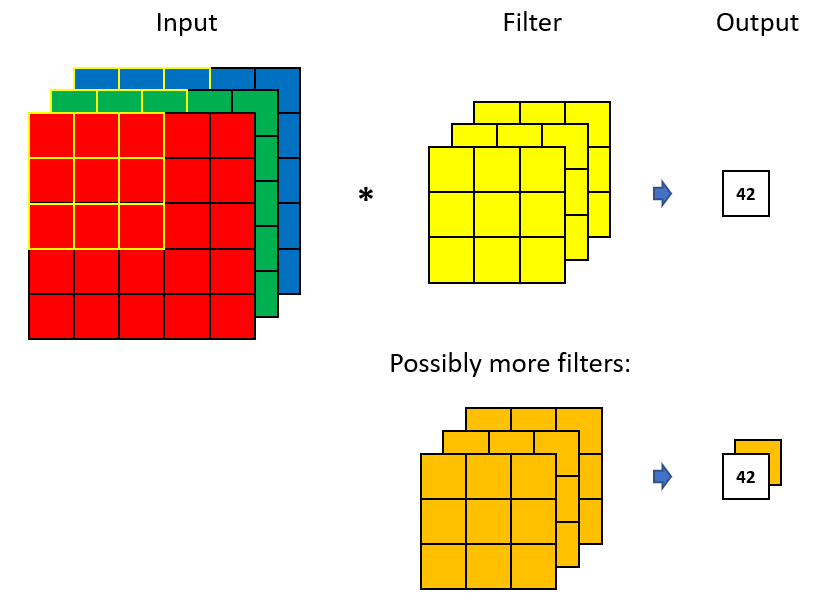
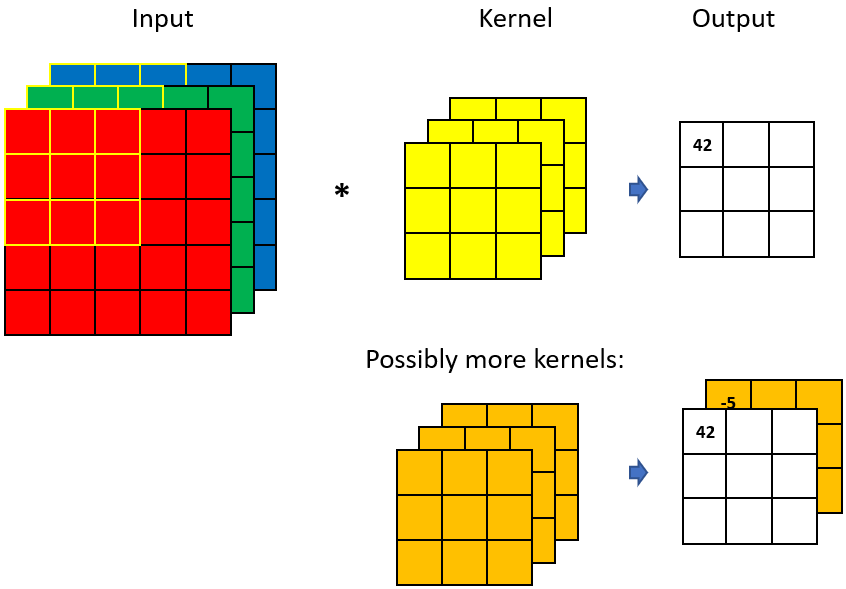
Skrevet første utkast av concolutions og unet, deretter endret på noen global eksperiment settings tables i metoden

diff --git a/chapter/background.tex b/chapter/background.tex
@@ -38,7 +38,7 @@
         things
 
 \section{Artificial Neural Networks} \label{neural networks}
-    \citeauthor{Goodfellow-et-al-2016_NN} \cite{Goodfellow-et-al-2016_NN} describes \gls{ann} as a unknown function \textit{\^{f}} that maps an input \textit{x} to an output \textit{y}. The goal is then to approximate some optimal function \textit{f} through learning from examples. In this section, I will explain the basics of \gls{ann}s.
+    \citeauthor{Goodfellow-et-al-2016_NN} \cite{Goodfellow-et-al-2016_NN} describes \gls{ann} as an unknown function \textit{\^{f}} that maps an input \textit{x} to an output \textit{y}. The goal is then to approximate some optimal function \textit{f} through learning from examples. In this section, I will explain the basics of \gls{ann}s.
 
     \subsection{Perceptron} \label{perceptron}
         The \gls{ann}s fundamental building block is called an artificial neuron or perceptron. It is formulated in the following way\cite{razavi2021deep_exp_per}:
@@ -46,7 +46,7 @@
                 y = \sigma(\sum_{i=1}^{D}w_ix_i + b)
             \end{equation}
             
-        where D is the number dimension of the input space, x is the input vector and w is a set of weights that is of the same size as x, b is the bias and {\textsigma} is a nonlinear activation function which will be explained later in \ref{activation function}. In short the equation inside the activation functions is a linear regression. The perceptron is illustrated in figure \ref{Perceptron / MLP}.
+        where D is the number dimension of the input space, x is the input vector and w is a set of weights that is of the same size as x, b is the bias and {\textsigma} is a nonlinear activation function which will be explained later in \ref{activation function}. In short, the equation inside the activation functions is a linear regression. The perceptron is illustrated in figure \ref{Perceptron / MLP}.
     
     \subsection{Multi-layered perceptron} \label{MLP}
         The neurons presented in section \ref{perceptron} are then piled together in layers to form a \gls{ann}, which in turn forms what is called a \gls{mlp} \cite{razavi2021deep_exp_per}. All the neurons in each layer are connected to every neuron in the next layer, as depicted in figure \ref{Perceptron / MLP}.
@@ -54,7 +54,7 @@
             \begin{figure}[H]
                 \centering
                 \includegraphics[scale=0.5]{figures/perceptron.png}
-                \caption{(a) A perceptron and (b) a multi-layer perceptron with four inputs in the input-layer(arrows to the left), two hidden layers(green), and three outputs in the output-layer(red).}
+                \caption[The perceptron and multi-layer perceptron]{(a) A perceptron and (b) a multi-layer perceptron with four inputs in the input-layer(arrows to the left), two hidden layers(green), and three outputs in the output-layer(red).}
               	\medskip 
                 \hspace*{15pt}\hbox{\scriptsize Credit: \citeauthor{razavi2021deep_exp_DL}\cite{razavi2021deep_exp_DL}}
                 \label{Perceptron / MLP}
@@ -77,7 +77,7 @@
             \begin{figure}[H]
                 \centering
                 \includegraphics[scale=0.5]{figures/activation.png}
-                \caption{A ReLU function (blue) and a sigmoid function (red)}.
+                \caption[ReLu and sigmoid]{A ReLU function (blue) and a sigmoid function (red)}.
               	\medskip 
                 \label{activation_fig}
             \end{figure}
@@ -97,88 +97,114 @@
 \subsection{Data-Augmentation}
     things
 
+\clearpage
 \section{Computer vision}
-    things
-\subsection{Convolutional neural network}
-    \gls{cnn} are a type of \gls{ann}s that are primarily used in machine learning tasks concerning images\cite{o2015introduction_convolutions}. The \gls{cnn} is built around an operation called convolutions that \textit{convolutes} over its input, hence the name. Unlike the regular neurons that has a connection to every neuron in the previous layer, in the convolution operation, every neuron consists of a weight matrix of three dimensions; \textit{height}, \textit{width} and \textit{depth}. The depth is the size of the third dimension of the input, like the three colors in standard images. This creates what is called a \textit{filter} which is applied to the input in what is defined as \textit{strides}, and calculates the scalar product between the weights and the connected area of the input. The complete convolutional operations then consist of applying this filter to the entire input. This reduces the dimension of the input to a 2D output, but you may apply several filters to increase the dimensions, as each will create a new 2D channel in the output. Reductions in the height and width will normally occur with the standard convolutions, and this type is called \textit{valid convolutions}. Later in this section \textit{same convolutions} will be described which conserves the input dimensions. The high level convolutional operation is illustrated in figure \ref{convolutional_filters_fig}. A more detailed example can be found in figure \ref{convolutional_fig} which looks at how a convolution is applied to 2D input. 
+    \textbf{Computer vision} is a very popular field of research within deep learning\cite{voulodimos2018deep_computer_vision}. This is because it has mainly focused around tasks we humans do naturally, while computers would struggle. This could be facial recognition, object detection and many more. Some work also went beyond human capability, like \citeauthor{davis2014visual_deep_video_audio}s\cite{davis2014visual_deep_video_audio} work, where he recovered sounds from the vibrations they induced in objects captured on video. There are many methods in the field of computer vision, but I will focus on the \gls{cnn}.
     
+    
+    
+\subsection{Convolutional neural network} \label{cnn}
+    The \textbf{\gls{cnn}} are a type of \gls{ann}s that are primarily used in machine learning tasks concerning images\cite{o2015introduction_convolutions}.The need for the convolutional operation stemmed from the fact that images input to a regular \gls{ann} produces a large amount of learnable parameters. An example 512x512 low resolution image with a first layer of 1 neuron would have $1*512*512 = 262144$ weights alone.  To solve this issue and have fewer learnable parameters, the \gls{cnn} is built around 3 main components\cite{o2015introduction_convolutions}:
+    
+    \begin{itemize}
+        \item A \textbf{convolutional operation} that in \textit{strides} applies the same operation to different regions of the input through the use of a \textit{kernel} and a \textit{receptive field}.
+        \item A \textbf{pooling operation} that reduces spatial dimensions.
+        \item A \textbf{fully-connected layer} that is similar to a layer in a regular \gls{ann} described in section \ref{Perceptron / MLP} and its task is to calculate class scores.
+     \end{itemize}
+     
     \begin{figure}[H]
         \centering
-        \includegraphics[scale=0.5]{figures/convolution.png}
-        \caption{The yellow outline in the input illustrated where the filter is applied. This produces a single value. More filters could be added to increase the dimension of the output.}
+        \includegraphics[scale=0.4]{figures/convolution.png}
+        \caption[Convolutional operation example]{The example input is an image with the color channels red, green and blue. The kernel is of height 3 and width 3, with a depth of 3 to correspond with the input number of channels. The yellow outlined area in the input illustrates the receptive field of the kernel, which produces an example output of 42. More kernels could be applied to increase the dimension of the output(orange). With only the yellow filter, this model would have; $3*3*3$ weights $+ 1$ bias $= 28$ learnable parameters, independent of input image height and width.}
       	\medskip 
-        \label{convolutional_filters_fig}
+        \label{convolutional_high_level_fig}
     \end{figure}
     
+    
+     \citeauthor{o2015introduction_convolutions}\cite{o2015introduction_convolutions} describes that the convolutional operation in a \gls{cnn} consists of a weight matrix of three dimensions; \textit{height}, \textit{width} and \textit{depth} written as: height x width x depth. From now, this matrix will be called the kernel. The height and the width of the kernel are parameters defined by the user, but the depth will always equal the number of channels in the input. This results in kernels being written only as: height x width.  The kernel is iteratively applied to different locations of the input, called the current \textit{receptive field}. When applied, it calculates the scalar product between the current receptive field and the kernel, producing a single scalar value called the \textit{activation}. The next receptive field is then located by moving the receptive field by a value defined as the \textit{stride} in the horizontal direction. If this is not possible due to a part of the  receptive field being outside the input, the receptive field will move one row down and begin anew. The high level convolutional operation is illustrated in figure \ref{convolutional_high_level_fig}.
 
+    The complete \textit{convolutional operation} performed by a convolutional layer consists of applying this kernel to the entire input. Producing activations for different regions of the input. This reduces the dimension of the input to a 2D activation output, but you may apply several kernels to increase the channels, as each will create a new 2D channel in the activations. A convolutional operation is often followed up with an element wise nonlinear activation function to its activations, like a ReLu. The kernels will through training learn to detect different features in the input, and so in a \gls{cnn} the first layers will often detect simple features like edges. Later layers will then detect more complex features like cars and houses, combining the activations from different earlier layers. The last layer consists of a \textit{fully connected} layer of regular neurons to determine the output, but implementations of networks with only convolutional operations exists like U-Net which will be described\cite{unet_ronneberger2015} in section \ref{unet} utilizing 1x1 convolutions. A more detailed example can be found in figure \ref{convolutional_fig} which looks at how a convolution with a horizontal edge detecting kernel is applied to a single channel or an equivalent 2D input. 
     
     \begin{figure}[H]
         \centering
-        \includegraphics[scale=0.5]{figures/convolutions.png}
-        \caption{Illustration of a \textit{valid} convolutional operation. The filter is applied repeatedly across the input. If the input had more channels, the filter would likewise have the equal depth. The size of input is 6x6, filter size is 3x3 and stride = 1. Resulting in the size of output being 4x4..}
+        \includegraphics[scale=0.4]{figures/convolutions.png}
+        \caption[Horizontal edge detector example]{Illustration of a \textit{valid} convolutional operation. The kernel is applied repeatedly across the input. The size of input is 6x6, kernel size is 3x3 and stride = 1, resulting in overlapping operations. Resulting in the size of output being 4x4. The figures to the right show the colors for input, kernel and output(activation), where the color gets darker if the values are low. This example is a horizontal edge detector, and the result is large activations along the border between the values of 0 and 10 in the input, which could have been colors in a picture. }
       	\medskip 
         \label{convolutional_fig}
     \end{figure}
     
+    Reductions in the dimensions\cite{o2015introduction_convolutions} will normally occur with the standard convolutions, and this type is called \textit{valid convolutions}. By applying a padding with zeros around the input, you can retain the dimensions of the input. The effect is that more convolutional operations fits in the new padded input, hence larger output size. This is called a \textit{same convolution}. Illustrated in figure \ref{same_convolutional_fig}.
+    
     \begin{figure}[H]
         \centering
         \includegraphics[scale=0.5]{figures/same_convolutions.png}
-        \caption{Illustration of a \textit{same} convolutional operation. The size of the input is 3x3, but after padding the size is 5x5, filter size is 3x3 and stride is 1. Resulting in the size of output being 3x3, hence conserving the input size.}
+        \caption[Same convolution example]{Illustration of a \textit{same} convolutional operation. The size of the input is 3x3, but after padding with zeros the size is 5x5, kernel size is 3x3 and stride is 1. Resulting in the size of the output being 3x3, hence conserving the input size.}
       	\medskip 
         \label{same_convolutional_fig}
     \end{figure}
     
-
-\subsection{Transpose convolutions}
-    things
     
-\subsection{Max-pool}
+    
+\subsection{Max pool}
+    As mentioned in the start of this chapter, the \textbf{max pool} operation reduces the size of its input\cite{o2015introduction_convolutions}. Like a convolutional operation, the max pool looks at a region of the input, but then instead applies a \textit{max} operation. The kernel size is given in \textit{height} x \textit{width}, and is applied individually to each dimension of the input.This reduces the height and width, but not the channels. The most common setting is 2x2 with a stride = 2, which results in decreasing the size to 25\%.
+
     \begin{figure}[H]
         \centering
         \includegraphics[scale=0.5]{figures/max_pool.png}
-        \caption{Illustration of the max-pool operation with size = 2 and stride = 2.}
+        \caption[The max pool operation]{Illustration of the max pool operation with size = 2x2 and stride = 2.}
       	\medskip 
         \label{maxpool_fig}
     \end{figure}
     
+\subsection{Transposed convolutions}
+    A transposed convolution is an operation performing the opposite operation compared to a regular convolution. This means taking an input and with a similar \textit{kernel} as described earlier in \ref{cnn} and mapping this to a higher spatial size. In example figure \ref{transposed_conv_fig} a 2D 2x2 input is fed to a transposed convolutional layer with kernel size 2x2. The whole kernel is multiplied element wise to the input and proceeds to produce values in a temporary matrix initialized with zeros(empty cells in the figure). The calculated values in the temporary matrix are situated correctly relative to the input. These temporary matrices are then summed over, producing the output. This operation is repeated for all channels, retaining the channels in the input.
     
-\subsection{Convolutions through volumes}
-    things
+    \begin{figure}[H]
+        \centering
+        \includegraphics[scale=0.5]{figures/transpose_convolution.png}
+        \caption[Transposed convolution]{Illustration of the transposed convolution operation with kernel size 2x2 and stride = 1. The green color shows one of the intermediate computations. The center value of each crop is outlined to illustrate the summation step as these overlaps.}
+      	\medskip 
+        \label{transposed_conv_fig}
+    \end{figure}
+    
+\subsection{Advantages of the convolutional neural network}
+    To sum up the advantages of the \gls{cnn}\cite{o2015introduction_convolutions}, they have, compared to regular \gls{ann}s, very few learnable parameters. It is only the kernels weights that are the parameters learned, and so share their parameters across all regions of the input, thus greatly reducing the amount. The max pool operation reduces the dimensions, hence reducing the size of the following convolutional layers, and does not have any learnable parameters itself. Since the same kernel is applied across the input, the position of what the kernel detects is also not relevant.
+    
     
 \subsection{Segmentation}
-    Segmentation is a machine learning task where the objective is to assign one or several classification masks to the input\cite{He_2017_ICCV_segmentation}. This is again split into two different categories; \textit{semantic} and \textit{instance} segmentation. In semantic segmentation, you assign each pixel in the input to predefined classes. While in instance segmentation, you increase the complexity by applying semantic segmentation and thereafter assigning a bounding box to each individual object. Semantic segmentation is the variant used in this thesis, and an example can be viewed in figure \ref{segmentation_fig}.
+    Segmentation is a computer vision task where the objective is to assign one or several classification masks to the input\cite{He_2017_ICCV_segmentation}. This is again split into two different categories; \textit{semantic} and \textit{instance} segmentation. In semantic segmentation, you assign each pixel in the input to predefined classes. While in instance segmentation, you increase the complexity by applying semantic segmentation and in parallel assigning a bounding box to each individual object. Semantic segmentation is the variant used in this thesis, and examples of both can be viewed in figure \ref{segmentation_fig}.
     
     \begin{figure}[H]
         \centering
         \includegraphics[scale=0.4]{figures/segmentation.png}
-        \caption{Illustration of the difference between semantic and instance segmentation.}
+        \caption[Difference between semantic and instance segmentation]{Illustration of the difference between semantic and instance segmentation.}
       	\medskip 
         \label{segmentation_fig}
     \end{figure}
     
     
 
-\section{U-Net}
-    In this part I introduce the architecture of the deep learning \gls{ann} used in this thesis called U-Net. This is a fully convolutional state-of-the-art\cite{rajak2021segmentation} semantic segmentation \gls{ann} and was initially developed for biomedical use by \citeauthor{unet_ronneberger2015}\cite{unet_ronneberger2015}. The \gls{crimac} used this model in their project (described in \ref{unet_paper_acoustic}) and had to do some small modifications to the network to fit their task. This modified U-Net is the one presented in this section, as this is the one used in the experiments. The core functionality of the network stays true to the original Unet and the alterations done will be explained later in this section.
+\section{U-Net} \label{unet}
+    In this part I introduce the architecture of the deep learning \gls{ann} used in this thesis called U-Net. This is a fully convolutional state-of-the-art\cite{rajak2021segmentation} semantic segmentation \gls{ann} and was initially developed for biomedical use by \citeauthor{unet_ronneberger2015}\cite{unet_ronneberger2015}. The \gls{crimac} used this model in their project (described in \ref{unet_paper_acoustic}) and had to do some small modifications to the network to fit their task. This modified U-Net is the one presented in this section, as this is the one used in the experiments. The core functionality of the network stays true to the original Unet and the alterations done to the original will be explained later in this section.
     
     \begin{figure}[H]
         \centering
         \includegraphics[scale=0.5]{figures/unet_arrows.png}
-        \caption{U-Net architecture, the downwards facing arrow illustrates the contracting path and the one facing upwards is the expanding path.}
+        \caption[U-Net architecture]{U-Net architecture, the downwards facing arrow illustrates the contracting path and the one facing upwards is the expanding path.}
       	\medskip 
         \label{unet_fig}
         \hspace*{15pt}\hbox{\scriptsize Credit: \citeauthor{brautaset2020acoustic}\cite{brautaset2020acoustic}}
     \end{figure}
     
-    Unet utilized what \citeauthor{unet_ronneberger2015}\cite{unet_ronneberger2015} called a contracting path to identify what was in a picture, while an expanding path to localize where it was. These two branches were symmetrical, and together they formed a U-shape, giving the network its name. The contracting path can be looked at as five different stages of processing, from top to bottom, in figure \ref{unet_fig}. Each stage applied the same operations to its given input. For each stage, this consisted first of two 3x3 same convolutions with their individual ReLu activation functions. Initially, the feature channels would be increased to 64, and later doubled for each contracting stage. The convolutions were followed by a 2x2 max pooling operation with stride 2 to decrease the resolution of the output from the convolutional operations, and then send this feature map down to the next stage. At the bottom stage, the only things that changed was the use of transpose convolutions instead of max pooling to now increase the resolution. At each subsequent stage going back up the expanding path, the number of feature channels were halved. To aid the localization, the output of the previous stage would be concatenated with the output feature map of a stage from the contracting path with the same size. At the last stage, when the resolution had reached it original size, a 1x1 convolution was applied instead of increasing the resolution. The 1x1 convolution mapped the 64 feature channels to the 3 classes. The softmax was then calculated between these classes, giving each pixel a value between [0,1], summarized over all classes to 1. Hence, giving you a segmentation map of each class with the same size as the input. In this thesis, this will be a semantic segmentation of the classes \textit{background}, \textit{other } and most importantly \textit{sandeel}.
+    Unet utilized what \citeauthor{unet_ronneberger2015}\cite{unet_ronneberger2015} called a contracting path to identify what was in a picture, while an expanding path to localize where it was. These two branches were symmetrical, and together they formed a U-shape, giving the network its name. The contracting path can be looked at as five different stages of processing, from top to bottom, in figure \ref{unet_fig}. Each stage applied the same operations to its given input. For each stage, this consisted first of two 3x3 same convolutions with their individual ReLu activation functions. Initially, the feature channels would be increased to 64, and later doubled for each contracting stage. The convolutions were followed by a 2x2 max pooling operation with stride 2 to decrease the resolution of the output from the convolutional operations, and then send this feature map down to the next stage. At the bottom stage, the only things that changed was the use of transpose convolutions instead of max pooling to now increase the resolution. At each subsequent stage going back up the expanding path, the number of feature channels were halved. To aid the localization, the output of the previous stage would be concatenated with the output feature map of a stage from the contracting path with the same size. At the last stage, when the resolution had reached it original size, a 1x1 convolution was applied instead of increasing the resolution. The 1x1 convolution mapped the 64 feature channels to the 3 classes. The softmax was then calculated between these classes, giving each pixel a value between [0,1], summarized over all classes to 1. Hence, giving you a segmentation map of each class with the same size as the input. 
     
-    Here I list the changes from \citeauthor{unet_ronneberger2015}s original U'net performed in article \ref{unet_paper_acoustic}. Firstly, minor changes were made to adapt U-net to the acoustic data, as the input now had the form 4 x 256 x 256. The four channels being the frequencies used. The convolutions were as mentioned in the previous paragraph set to \textit{same} instead of \textit{valid}, as were the original setting. This was done to make the size of the input and output match. Further, batch normalization was added to each convolution. 
+    %In this thesis, this will be a semantic segmentation of the classes \textit{background}, \textit{other } and most importantly \textit{sandeel}.
     
+    Minor changes were made to adapt\citeauthor{unet_ronneberger2015}s original U'net to the acoustic data used in \ref{unet_paper_acoustic}, as the input now had the form 4 x 256 x 256. The four channels being the frequencies used. The convolutions were as mentioned in the previous paragraph set to \textit{same} instead of \textit{valid}, as were the original setting. This was done to make the size of the input and output match. Further, batch normalization was added to each convolution. 
     
 
-
-
-
+% Unsure if this is to be here, in methodology or appendix.
+\clearpage
 \section{The data and tools}
     The data was provided by the \gls{imr} and I had access to a broad selection of yearly trawl cruises spanning from 2011 to 2020. In this chapter, I will delve into the data itself to give you a clearer picture of how it looked, how I acquired it and what tools I utilized.
     

diff --git a/chapter/methodology.tex b/chapter/methodology.tex
@@ -1,9 +1,9 @@
 \chapter{Methodology}
 \section{Challenges and restrictions}
-    \subsection{The ZARR issue}
-        things
+    \subsection{The .ZARR issue}
+        As this thesis was going to be based around the .ZARR format, I soon discovered a problem. 
     \subsection{Bitmap errors} \label{bitmap_error}
-        things
+        
         
     \subsection{Server at the University of Bergen}
         things
@@ -22,7 +22,7 @@
             \centering
             \includegraphics[scale=0.32]{figures/data_sample.png}
           	\includegraphics[scale=0.32]{figures/data_sample_noisy.png}
-            \caption{Two examples of pseudo labels by row. Purple is values 0 zero and yellow is 1. The upper row illustrates a low noise sample, while the sample in the lower row contains more noise, especially in the background annotations.}
+            \caption[Example pseudo label]{Two examples of pseudo labels by row. Purple is values 0 zero and yellow is 1. The upper row illustrates a low noise sample, while the sample in the lower row contains more noise, especially in the background annotations.}
             \label{data sample fig}
         \end{figure}        
         
@@ -33,7 +33,7 @@
         \begin{figure}[H]
             \centering
             \includegraphics[scale=0.8]{figures/flow_data_gen.png}
-            \caption{An overview of the data generation process. CRIMAC pipeline modules (black), data.raw (blue), SV data.zarr (green), pseudo labels.zarr (yellow), bottom.zarr (red) and the finished file.pytorch (gray)}
+            \caption[Data generation process]{An overview of the data generation process. CRIMAC pipeline modules (black), data.raw (blue), SV data.zarr (green), pseudo labels.zarr (yellow), bottom.zarr (red) and the finished file.pytorch (gray)}
           	\medskip 
             \label{data_generation_flowchart_fig}
         \end{figure}
@@ -44,7 +44,7 @@
         \begin{figure}[H]
             \centering
             \includegraphics[scale=0.5]{figures/crop_extract_illustration.png}
-            \caption{Example of how the data, pseudo labels and bottom crops would look during data generation. For the pseudo label, purple is values of 0 and yellow value of 1. Some predictions under the seafloor are removed.  Size is shown to make it clear that it is a crop of the same size from the same location.}.
+            \caption[Data, label and bottom crop extraction and interaction]{Example of how the data, pseudo labels and bottom crops would look during data generation. For the pseudo label, purple is values of 0 and yellow value of 1. Some predictions under the seafloor are removed.  Size is shown to make it clear that it is a crop of the same size from the same location.}.
           	\medskip 
             \label{crop_extract_fig}
         \end{figure}
@@ -56,7 +56,7 @@
         \begin{figure}[H]
             \centering
             \includegraphics[scale=0.5]{figures/data_hierarki.png}
-            \caption{An overview of the data hierarchy.}.
+            \caption[The data-hierarchy]{An overview of the data hierarchy.}.
           	\medskip 
             \label{data_hierarchy_fig}
         \end{figure}
@@ -89,26 +89,55 @@
     
     \subsection{Experiment settings} \label{Experiment settings}
         All models are based on the one created in article \ref{unet_paper_acoustic}. This means the architecture, hyperparameters and the way the data is loaded into the model. A summary can be seen in table \ref{experiment_settings_table}.
-        
-        \clearpage
-        \begin{table}[H]
-        \caption{Overview of experiment parameters.}
-        \label{experiment_settings_table}
-        \begin{tabular}{lll}
-        \cline{1-2}
-        \multicolumn{1}{|l|}{\textbf{Data augmentation}}        & \multicolumn{1}{l|}{\textbf{Comments}}                     & \textbf{}                                                                                               \\ \cline{1-2}
-        \multicolumn{1}{|l|}{\textit{Convert to decibel scale}} & \multicolumn{1}{l|}{Always}                                &                                                                                                         \\ \cline{1-2}
-        \multicolumn{1}{|l|}{\textit{Flip along vertical axis}} & \multicolumn{1}{l|}{50\% of happening upon loading sample} &                                                                                                         \\ \cline{1-2}
-                                                                &                                                            &                                                                                                         \\ \hline
-        \multicolumn{1}{|l|}{\textbf{Hyperparameters}}          & \multicolumn{1}{l|}{\textbf{Value/ Category}}              & \multicolumn{1}{l|}{\textbf{Comments}}                                                                  \\ \hline
-        \multicolumn{1}{|l|}{\textit{Learning rate}}            & \multicolumn{1}{l|}{0.01}                                  & \multicolumn{1}{l|}{Halved every 1000th batch}                                                          \\ \hline
-        \multicolumn{1}{|l|}{\textit{Momentum}}                 & \multicolumn{1}{l|}{0.95}                                  & \multicolumn{1}{l|}{}                                                                                   \\ \hline
-        \multicolumn{1}{|l|}{\textit{Loss function}}            & \multicolumn{1}{l|}{Weighted Cross-entropy}                & \multicolumn{1}{l|}{\begin{tabular}[c]{@{}l@{}}Background = 1, Other = 25,\\ Sandeel = 30\end{tabular}} \\ \hline
-        \multicolumn{1}{|l|}{\textit{Optimizer}}                & \multicolumn{1}{l|}{Stochastic gradient descent}           & \multicolumn{1}{l|}{}                                                                                   \\ \hline
-        \multicolumn{1}{|l|}{\textit{Batch size}}               & \multicolumn{1}{l|}{16}                                    & \multicolumn{1}{l|}{}                                                                                   \\ \hline
-        \multicolumn{1}{|l|}{\textit{Crop size}}                & \multicolumn{1}{l|}{256x256}                               & \multicolumn{1}{l|}{Include all available channels}                                                     \\ \hline
-        \end{tabular}
-        \end{table}
+
+
+\clearpage
+\begin{longtable}{lcl}
+\hline
+\multicolumn{1}{|l|}{\textbf{Sample class}} & \multicolumn{1}{l|}{\textbf{Probability}} & \multicolumn{1}{l|}{\textbf{Details}}                                                         \\ \hline
+\endfirsthead
+%
+\endhead
+%
+Sandeel                                     & 5/26                                      & Random crop containing the sandeel class                                                      \\ \hline
+Other                                       & 5/26                                      & Random crop containing the other class                                                        \\ \hline
+Valid                                       & 1/26                                      & Random crop containing no fish                                                                \\ \hline
+Seafloor + Sandeel                          & 5/26                                      & \begin{tabular}[c]{@{}l@{}}Random crop containing the sandeel class\\ + seafloor\end{tabular} \\ \hline
+Seafloor + Other                            & 5/26                                      & \begin{tabular}[c]{@{}l@{}}Random crop containing the other class\\ + seafloor\end{tabular}   \\ \hline
+Seafloor + Background                       & 5/26                                      & \begin{tabular}[c]{@{}l@{}}Random crop containing no fish\\ + seafloor\end{tabular}           \\ \hline
+\end{longtable}
+
+
+\clearpage
+\begin{longtable}{lll}
+\hline
+\multicolumn{1}{|l|}{\textbf{Hyperparameters}} & \multicolumn{1}{l|}{\textbf{Value/ Category}} & \multicolumn{1}{l|}{\textbf{Details}}                                                 \\ \hline
+\endfirsthead
+%
+\endhead
+%
+\textit{Loss function:}                         & Weighted Cross-entropy                        & \begin{tabular}[c]{@{}l@{}}Background = 1, \\ Other = 25,\\ Sandeel = 30\end{tabular} \\ \hline
+\textit{Optimizer:}                             & Stochastic gradient descent                   &                                                                                       \\ \hline
+\textit{Learning rate:}                         & 0.01                                          & \begin{tabular}[c]{@{}l@{}}Halved every \\ 1000th batch\end{tabular}                  \\ \hline
+\textit{Momentum:}                              & 0.95                                          &                                                                                       \\ \hline
+\textit{Batch size:}                            & 16                                            &                                                                                       \\ \hline
+\textit{Crop size:}                             & 256x256                                       & \begin{tabular}[c]{@{}l@{}}Include all \\ available channels\end{tabular}             \\ \hline
+\end{longtable}
+
+
+\clearpage
+\begin{longtable}{lll}
+\hline
+\multicolumn{2}{|l|}{\textbf{Data augmentation}} & \multicolumn{1}{l|}{\textbf{Details}} \\ \hline
+\endfirsthead
+%
+\endhead
+%
+\textit{Add noise to 5\% of pixels}      &       & 50\% of happening upon loading sample \\ \hline
+\textit{Flip along vertical axis}        &       & 50\% of happening upon loading sample \\ \hline
+\textit{Convert to decibel scale}        &       & Min -75db, max 0db                    \\ \hline
+\end{longtable}
+
         
         For all experiments, the model architecture was based on the one described in section \ref{unet_paper_acoustic}. The only change to the model was the number of channels in the input layer called "input image" with a value of 4 in figure \ref{unet_fig}. This would range from 1 to 6 to accommodate the tests.
         

diff --git a/generators/frontpage.tex b/generators/frontpage.tex
@@ -16,7 +16,7 @@
 
 \HRule \\[0.5cm]
 \begin{Huge}
-	\bfseries{Analysis of frequencies used in classification of sandeel}\\[0.7cm] % Title of your document
+	\bfseries{Analysis of frequencies used in acoustic classification of sandeel through deep learning}\\[0.7cm] % Title of your document
 \end{Huge}
 \HRule \\[0.5cm]
 
